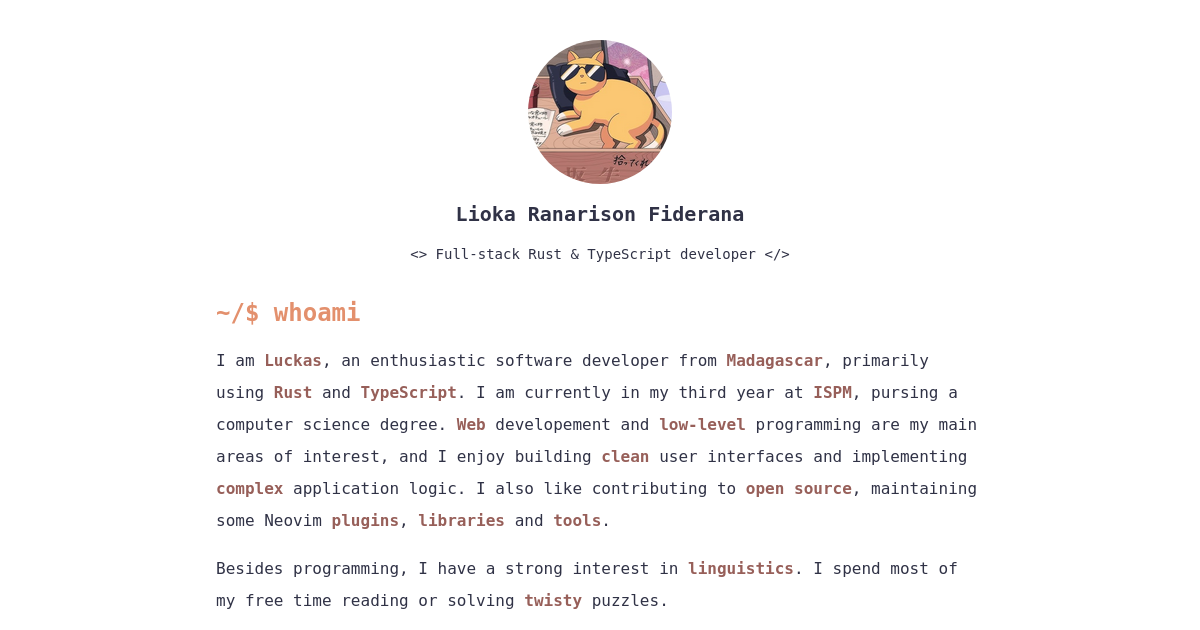
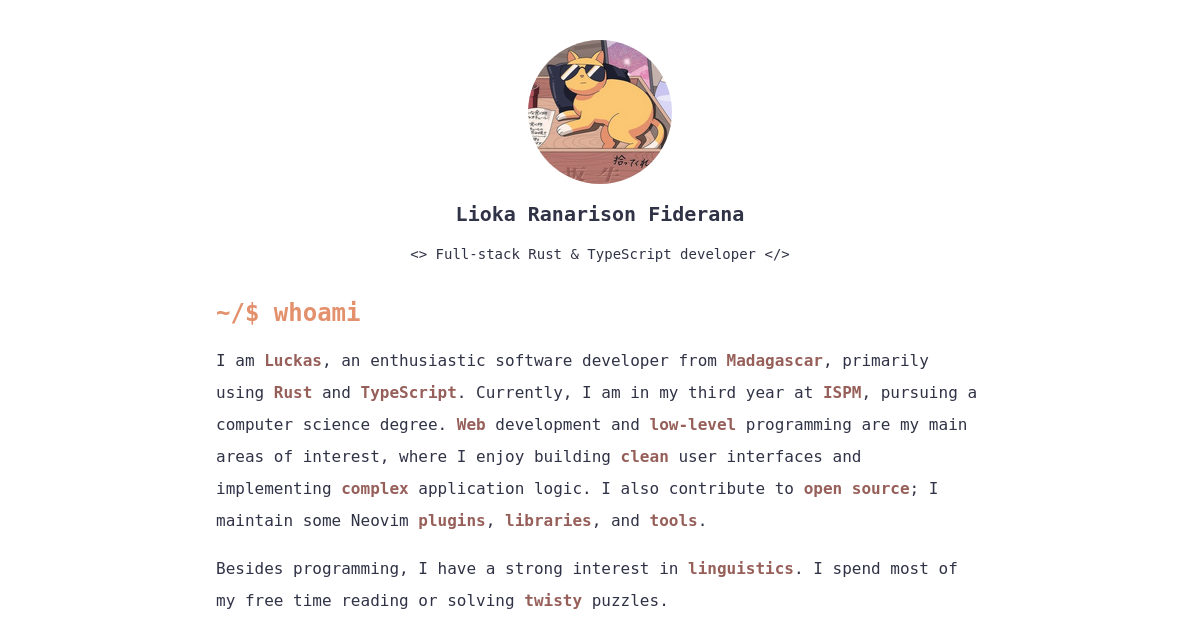
fix: typos, preview & structure

Changed region(s): [[0.185, 0.6635, 0.8325, 0.7841], [0.4008, 0.6032, 0.8017, 0.6333], [0.185, 0.8143, 0.5858, 0.8444]]

diff --git a/index.html b/index.html
@@ -5,7 +5,7 @@
     <meta name="viewport" content="width=device-width, initial-scale=1.0" />
     <meta
       name="description"
-      content="I am a software developer specialized in Rust and TypeScript based in Madagascar"
+      content="I am Luckas, a full-stack software developer specialized in Rust and TypeScript, based in Madagascar"
     />
     <meta
       name="keywords"
@@ -14,7 +14,7 @@
     <meta property="og:title" content="Lioka Ranarison Fiderana (Luckas)" />
     <meta
       property="og:description"
-      content="I am a software developer specialized in Rust and TypeScript based in Madagascar"
+      content="I am Luckas, a full-stack software developer specialized in Rust and TypeScript, based in Madagascar"
     />
     <meta
       property="og:image"
@@ -23,7 +23,7 @@
     <link rel="apple-touch-icon" sizes="180x180" href="/apple-touch-icon.png" />
     <link rel="icon" type="image/png" sizes="32x32" href="/favicon-32x32.png" />
     <link rel="icon" type="image/png" sizes="16x16" href="/favicon-16x16.png" />
-    <link rel="stylesheet" href="./style.css" />
+    <link rel="stylesheet" href="/style.css" />
     <title>Lioka Ranarison Fiderana</title>
   </head>
 
@@ -48,23 +48,22 @@
           an enthusiastic software developer from
           <span class="bold-primary">Madagascar</span>, primarily using
           <span class="bold-primary">Rust</span> and
-          <span class="bold-primary">TypeScript</span>. I am currently in my
+          <span class="bold-primary">TypeScript</span>. Currently, I am in my
           third year at <a class="link" href="https://ispm-edu.com/">ISPM</a>,
-          pursing a computer science degree.
+          pursuing a computer science degree.
           <span class="bold-primary">Web</span>
-          developement and
+          development and
           <span class="bold-primary">low-level</span> programming are my main
-          areas of interest, and I enjoy building
+          areas of interest, where I enjoy building
           <span class="bold-primary">clean</span> user interfaces and
           implementing <span class="bold-primary">complex</span> application
-          logic. I also like contributing to
-          <span class="bold-primary">open source</span>, maintaining some Neovim
+          logic. I also contribute to
+          <span class="bold-primary">open source</span>; I maintain some Neovim
           <a href="https://dotfyle.com/luckasRanarison" class="link">plugins</a
           >,
           <a href="https://crates.io/users/luckasRanarison" class="link"
             >libraries</a
-          >
-          and
+          >, and
           <a
             href="https://github.com/tree-sitter-grammars/tree-sitter-hyprlang/tree/master"
             class="link"
@@ -79,18 +78,16 @@
         </p>
         <div>
           <h3 class="font-semibold">Fun facts:</h3>
-          <li class="list-none">
-            <ul class="">
-              ~ I can speak fluently
-              <span class="bold-primary">french</span
-              >,
-              <span class="bold-primary">english</span>
+          <ul>
+            <li>
+              ~ I can speak
+              <span class="bold-primary">French</span>,
+              <span class="bold-primary">English</span>
               and
-              <span class="bold-primary">japanese</span>
-              (<a href="https://www.jlpt.jp/e/" class="link">N2</a
-              >).
-            </ul>
-            <ul>
+              <span class="bold-primary">Japanese</span>
+              (<a href="https://www.jlpt.jp/e/" class="link">N2</a>) fluently.
+            </li>
+            <li>
               ~ I can solve the Rubik's cube
               <span class="bold-primary">blindfolded</span>
               and I am the current 2x2
@@ -100,8 +97,8 @@
                 >NR</a
               >
               holder.
-            </ul>
-            <ul>
+            </li>
+            <li>
               ~ I love cats and I am huge fan of
               <a
                 href="https://www.youtube.com/@marymarymary80s/videos"
@@ -109,8 +106,8 @@
                 >マリマリマリ</a
               >
               videos.
-            </ul>
-          </li>
+            </li>
+          </ul>
         </div>
       </div>
       <div class="space-y-4">
@@ -133,7 +130,7 @@
           <div><span class="bold-primary">WM: </span>Hyprland</div>
           <div><span class="bold-primary">Editor: </span>Neovim</div>
           <div>
-            <span class="bold-primary">Languages: </span>Rust, Typescript, Lua
+            <span class="bold-primary">Languages: </span>Rust, TypeScript, Lua
           </div>
           <div class="mt-4 flex">
             <div class="block bg-primary-light"></div>
@@ -144,7 +141,7 @@
         </div>
       </div>
       <div class="space-y-4">
-        <h2 class="bold-secondary w-full text-2xl">~/$ ls projects</h2>
+        <h2 class="bold-secondary w-full text-2xl">~/$ cat projects.txt</h2>
         <p>
           Here is a list of my most relevant open source projects. For an
           exhaustive list and to see my contributions, you can check out my
@@ -205,8 +202,8 @@
           </p>
           <div class="italic text-primary">#rust #cli #crate #cubing</div>
           <div class="mt-2">Built using kewb:</div>
-          <li class="list-none">
-            <ul>
+          <ul>
+            <li>
               ~
               <a
                 href="https://github.com/Seliaste/mindsolver"
@@ -217,8 +214,8 @@
                 >Alternative software for the Mindcuber-style robots using the
                 ev3dev OS.
               </span>
-            </ul>
-            <ul>
+            </li>
+            <li>
               ~
               <a
                 href="https://share.vmiklos.hu/pages/rubik/"
@@ -228,12 +225,12 @@
               <span
                 >Online 3x3 Rubik's cube solver using kewb and three.js</span
               >
-            </ul>
-          </li>
+            </li>
+          </ul>
         </div>
         <div>
           <div class="flex justify-between">
-            <h3 class="bold-primary">&dash; nvim-devdocs</h3>
+            <h3 class="bold-primary">&dash; nvim-devdocs (archieved)</h3>
             <div>
               [<a
                 href="https://github.com/luckasRanarison/nvim-devdocs"
@@ -387,26 +384,26 @@
       </div>
       <div class="space-y-4">
         <h2 class="bold-secondary w-full text-2xl">~/$ cat contacts.yml</h2>
-        <li class="list-none space-y-2">
-          <ul>
+        <ul class="list-none space-y-2">
+          <li>
             <span class="bold-primary">&dash; Phone: </span>
             <a href="tel:+261341475235" class="contact">+261341475235</a>
-          </ul>
-          <ul>
+          </li>
+          <li>
             <span class="bold-primary">&dash; E-mail: </span>
             <a href="mailto:luckasranarison@gmail.com" class="contact"
               >luckasranarison@gmail.com</a
             >
-          </ul>
-          <ul>
+          </li>
+          <li>
             <span class="bold-primary">&dash; Location: </span>
             <a
               href="https://www.google.fr/maps/@-18.9236357,47.5263146,19z?hl=en&entry=ttu"
               class="contact"
               >Antananarivo, Madagascar</a
             >
-          </ul>
-        </li>
+          </li>
+        </ul>
         <div class="opacity-70"># You can also reach me on social media</div>
       </div>
     </main>
@@ -417,22 +414,32 @@
         ===============================================================================
       </div>
       <div>
-        Built with <span class="bold-primary">&lt;3</span> using
-        <span class="bold-primary">html</span> and
-        <span class="bold-primary">tailwindcss</span>
+        Built with <span class="bold-primary">&hearts;</span> using
+        <span class="bold-primary">&lt;html/&gt;</span> and
+        <span class="bold-primary">@tailwind</span>
       </div>
       <div class="flex space-x-6">
-        <a href="https://github.com/luckasRanarison/"
-          ><img src="/assets/github.svg" width="25"
+        <a
+          href="https://github.com/luckasRanarison/"
+          aria-label="Github profile"
+          ><img src="/assets/github.svg" width="25" alt="GitHub"
         /></a>
-        <a href="https://www.facebook.com/fiderana.ranarison/"
-          ><img src="/assets/facebook.svg" width="25"
+        <a
+          href="https://www.facebook.com/fiderana.ranarison/"
+          aria-label="Facebook profile"
+          ><img src="/assets/facebook.svg" width="25" alt="Facebook"
         /></a>
         <a href="https://www.reddit.com/user/GodBidOOf_1/"
-          ><img src="/assets/reddit.svg" width="25"
+          ><img
+            src="/assets/reddit.svg"
+            width="25"
+            alt="Reddit"
+            aria-label="Reddit profile"
         /></a>
-        <a href="https://www.worldcubeassociation.org/persons/2019LIOK01"
-          ><img src="/assets/wca.svg" width="23"
+        <a
+          href="https://www.worldcubeassociation.org/persons/2019LIOK01"
+          aria-label="WCA profile"
+          ><img src="/assets/wca.svg" width="23" alt="WCA"
         /></a>
       </div>
       <div>©2024 luckasRanarison.</div>
